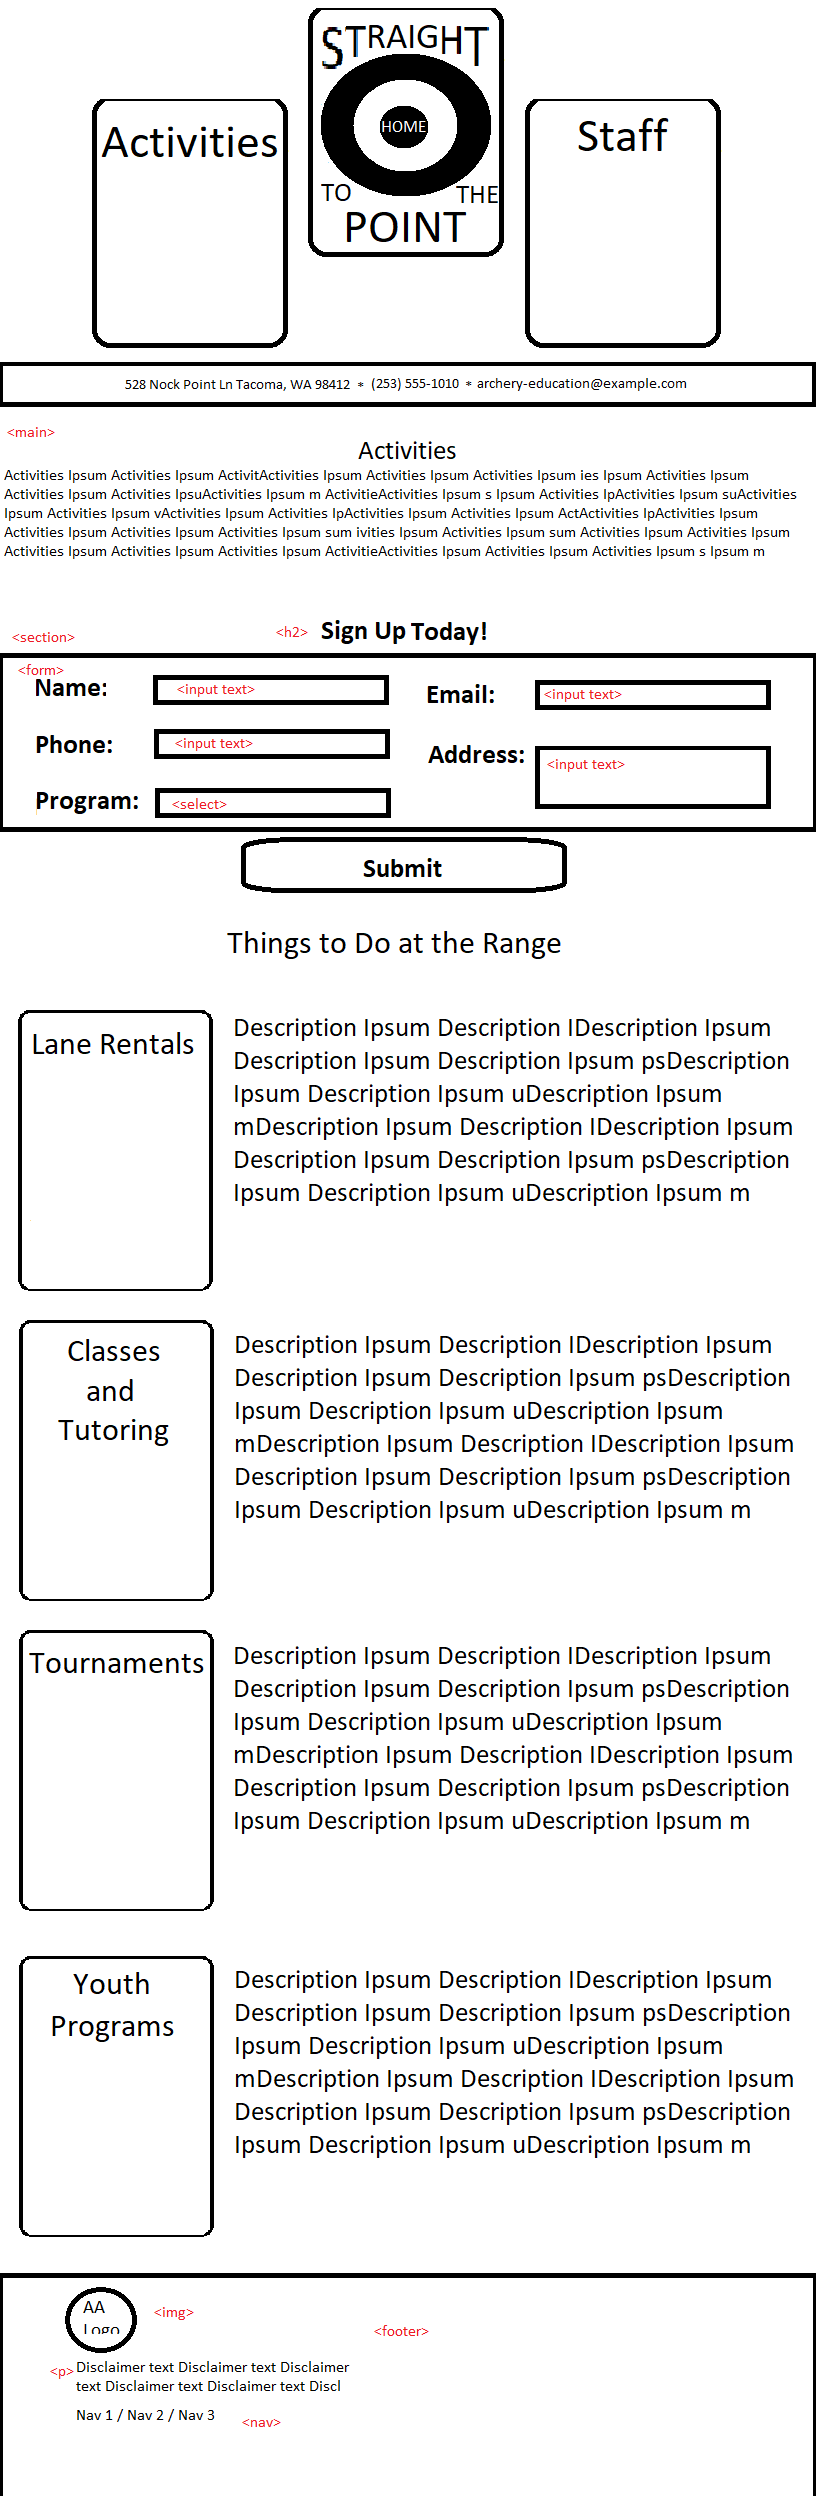
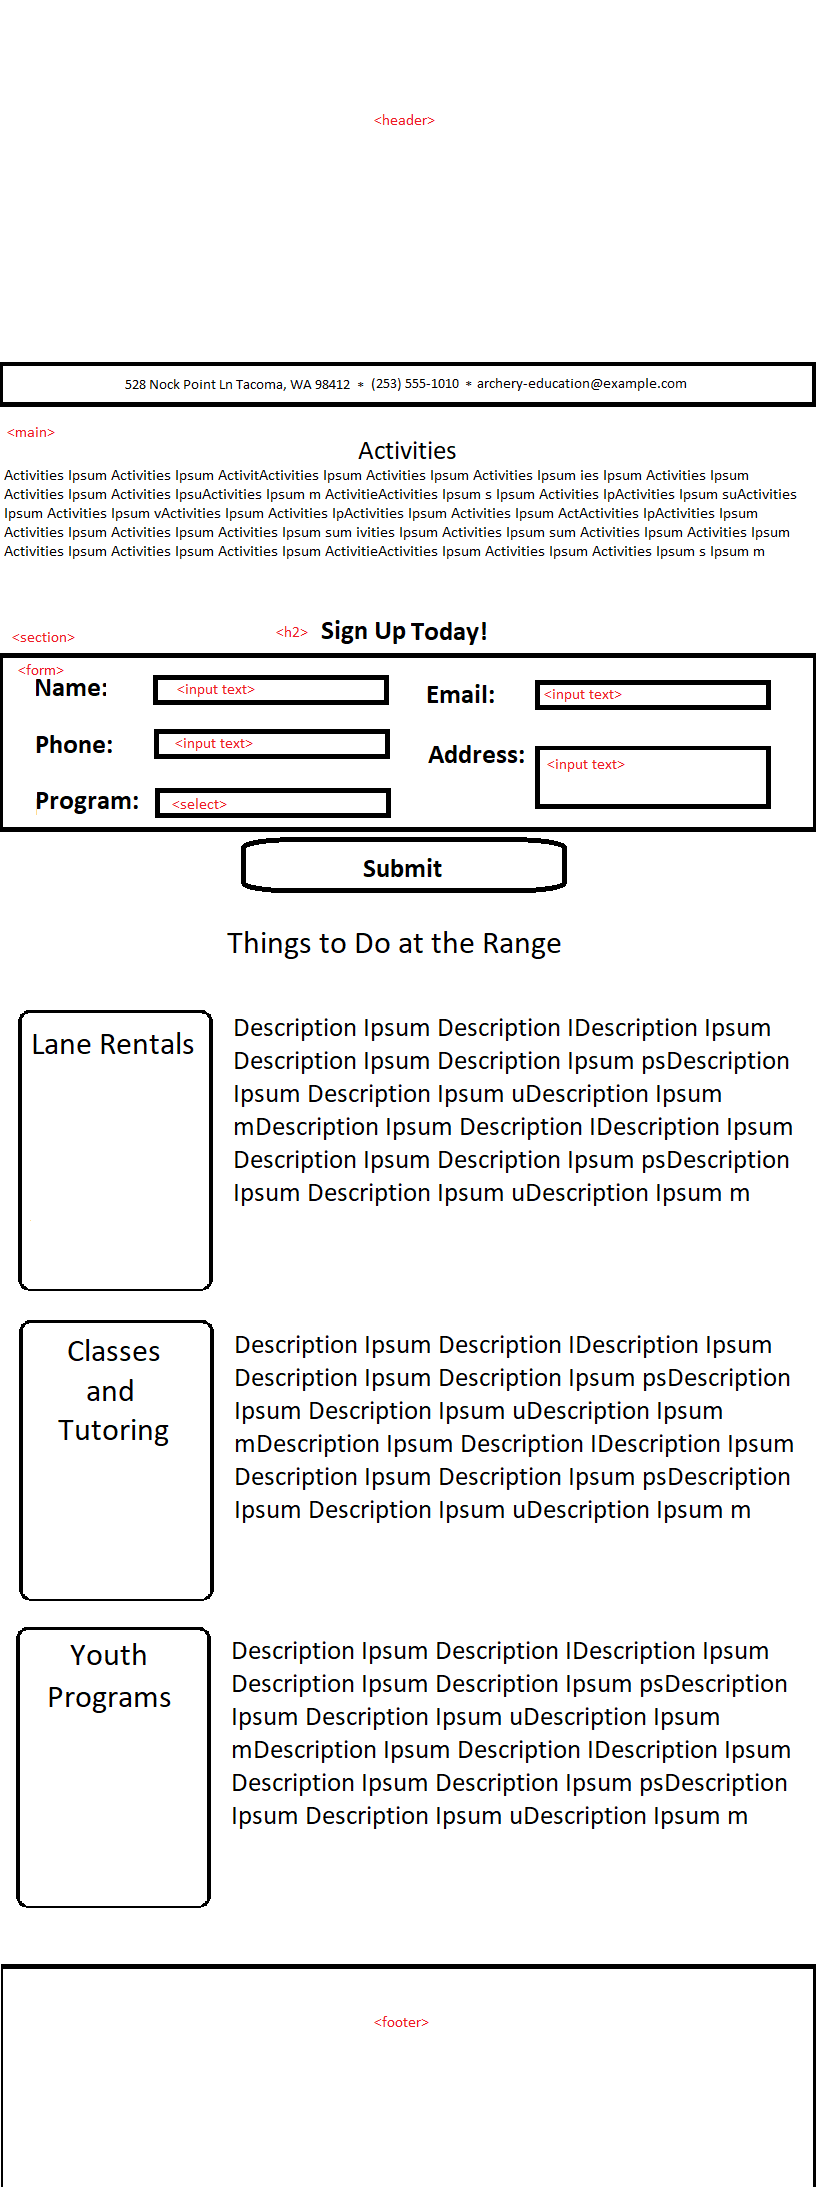
Switched to using cards for NAV. Replaced ipsum with real text

diff --git a/activities.html b/activities.html
@@ -3,7 +3,7 @@
 <head>
   <meta charset="utf-8">
   <link rel="stylesheet" type="text/css" href="styles/styles.css-placeholder">
-  <title>Staff - Straight to the Point</title>
+  <title>Activities - Straight to the Point</title>
   <script src="https://kit.fontawesome.com/f3d2ed15b5.js" crossorigin="anonymous"></script>
 </head>
 <body>
@@ -66,6 +66,7 @@
           <option value="p10">Private Tutoring - 10 Lessons</option>
           <option value="t">Upcoming Tournament</option>
           <option value="y">Youth Program - YMCA, Boy Scouts, Schools, etc.</option>
+          <option value="ge">Group Event</option>
         </select>
         <input type="submit" value="Send Registration Request" id="signup-submit" name="signup-submit">
       </form>
@@ -74,25 +75,38 @@
       <h2>Things to Do at the Range</h2>
       <article>
         <div class="card activity-card">
-          <h3>Lane Rentals</h3>
+          <h3>Target Ranges</h3>
         </div>
-        <p>Lorem ipsum dolor sit amet, consectetur adipiscing elit. Donec gravida ipsum est, at pharetra sem efficitur non. Nulla aliquam felis purus, in lacinia neque convallis sit amet. Sed ut enim quam. Aenean et massa id ante bibendum commodo. Aenean sagittis nibh ante. Vestibulum molestie vulputate quam. Nam rhoncus diam nec justo eleifend, ac laoreet ligula accumsan. Cras in erat vel lectus placerat ultricies at non magna. Pellentesque quis lectus quis lacus ornare congue. Morbi maximus magna ac malesuada dapibus. Duis nec mollis purus. Phasellus vel iaculis massa, sed laoreet ipsum.</p>
+        <p>Come and hone your craft. We house 28 shooting lanes - 14 each of 10 yards and 20 yards - and 2 private coaching rooms. We also have access to 26 additional 20 yard lanes and an outdoor shooting field.</p>
+        <p>If your're feeling social, make a group reservation! Some of the many uses of the range include...</p>
+          <ul>
+            <li>Birthday Parties</li>
+            <li>Team Outings / Corporate Events</li>
+            <li>Friendly Competitions</li>
       </article>
       <article>
         <div class="card activity-card">
           <h3>Classes and Tutoring</h3>
         </div>
-        <p>Lorem ipsum dolor sit amet, consectetur adipiscing elit. Donec gravida ipsum est, at pharetra sem efficitur non. Nulla aliquam felis purus, in lacinia neque convallis sit amet. Sed ut enim quam. Aenean et massa id ante bibendum commodo. Aenean sagittis nibh ante. Vestibulum molestie vulputate quam. Nam rhoncus diam nec justo eleifend, ac laoreet ligula accumsan. Cras in erat vel lectus placerat ultricies at non magna. Pellentesque quis lectus quis lacus ornare congue. Morbi maximus magna ac malesuada dapibus. Duis nec mollis purus. Phasellus vel iaculis massa, sed laoreet ipsum.</p>
-      </article>
-      <article>
-        <div class="card activity-card">
-          <h3>Tournaments</h3>
-        </div>
-        <p>Lorem ipsum dolor sit amet, consectetur adipiscing elit. Donec gravida ipsum est, at pharetra sem efficitur non. Nulla aliquam felis purus, in lacinia neque convallis sit amet. Sed ut enim quam. Aenean et massa id ante bibendum commodo. Aenean sagittis nibh ante. Vestibulum molestie vulputate quam. Nam rhoncus diam nec justo eleifend, ac laoreet ligula accumsan. Cras in erat vel lectus placerat ultricies at non magna. Pellentesque quis lectus quis lacus ornare congue. Morbi maximus magna ac malesuada dapibus. Duis nec mollis purus. Phasellus vel iaculis massa, sed laoreet ipsum.</p>
+        <p>From Beginner to Elite, archers of all ages and ability can learn about this exciting Olympic and international sport. We offer several types of lessons to accommodate everyone from the first time archer to the professional archer. Once set up with proper fitting equipment, each archer will be given the basic safety instruction to start and will be introduced to various shooting techniques.</p>
+        <p>Straight to the Point Archery’s staff has decades of experience in the archery industry. We teach in a positive learning environment and are committed to educating you with any questions that you may have.</p>
       </article>
       <article>
         <div class="card activity-card">
           <h3>Youth Programs</h3>
+        </div>
+        <p>Straight to the Point Archery also offers several other youth group activities. We are dedicated to teaching valuable life skills to the youth in our community through the wonderful discipline of archery.</p>
+        <p>Some (but not all!) of our programs...</p>
+        <ul>
+          <li>Homeschooling Programs</li>
+          <li>Kids Club Events</li>
+          <li>YMCA Classes</li>
+          <li>Boy and Girl Scouts Achievement Programs</li>
+        </ul>
+      </article>
+      <article>
+        <div class="card activity-card">
+          <h3>Tournaments</h3>
         </div>
         <p>Lorem ipsum dolor sit amet, consectetur adipiscing elit. Donec gravida ipsum est, at pharetra sem efficitur non. Nulla aliquam felis purus, in lacinia neque convallis sit amet. Sed ut enim quam. Aenean et massa id ante bibendum commodo. Aenean sagittis nibh ante. Vestibulum molestie vulputate quam. Nam rhoncus diam nec justo eleifend, ac laoreet ligula accumsan. Cras in erat vel lectus placerat ultricies at non magna. Pellentesque quis lectus quis lacus ornare congue. Morbi maximus magna ac malesuada dapibus. Duis nec mollis purus. Phasellus vel iaculis massa, sed laoreet ipsum.</p>
       </article>
@@ -102,10 +116,33 @@
     <img src="images/archeryAcademy-logo-white.png" alt="Archery Academy Logo">
     <p>Next Step Archery admits students of any race, gender presentation, sexuality, religion, national origin or ethnic origin to all rights, privileges, programs and activities available to students at the school. We do not discriminate in administration of our educational policies, admission policies and other school administered programs. All students are welcome and valuable members of our community.</p>
     <nav class="footer-nav">
-      <a href="https://www.usarchery.org/">USA Archery (USAA)</a>
-      <a href="http://www.washingtonarchery.org/">Washington State Archery Association (WSAA)</a>
-      <a href="http://www.wsbowhunters.org">Washington State Bow Hunters (WSB)</a>
-      <a href="https://www.nfaausa.com/">National Field Archery Association (NFAA)</a>
+      <h2>Affiliates</h2>
+      <div class="card-section affiliates-list">
+        <a href="https://www.usarchery.org/">
+          <div class="card affiliate-card">
+            <h3>USAA</h3>
+            <p>USA Archery</p>
+          </div>
+        </a>
+        <a href="http://www.washingtonarchery.org/">
+          <div class="card affiliate-card">
+            <h3>WSAA</h3>
+            <p>Washington State Archery Association</p>
+          </div>
+        </a>
+        <a href="http://www.wsbowhunters.org">
+          <div class="card affiliate-card">
+            <h3>WSB</h3>
+            <p>Washington State Bow Hunters</p>
+          </div>
+        </a>
+        <a href="https://www.nfaausa.com/">
+          <div class="card affiliate-card">
+            <h3>NFAA</h3>
+            <p>National Field Archery Association</p>
+          </div>
+        </a>
+      </div>
     </nav>
   </footer>
 </body>

diff --git a/staff.html b/staff.html
@@ -41,7 +41,7 @@
   <main>
     <section class="staff top-section">
       <h2>Meet Our Staff</h2>
-      <p>Straight to the Point Archery has instructors that are qualified level 1 and level 2 instructors and have met the safety requirements of the USA Archery (USAA). We teach in a positive learning environment.  Our instructors also have extensive knowledge of the most advanced archery equipment and all forms of archery from the traditional long bow to the modern compound.  Straight to the Point Archery also has specific instructors for recreational archery, competitive archery and bow hunting.</p>
+      <p>Straight to the Point Archery employs qualified level 1 and level 2 instructors that have met the safety requirements of the USA Archery (USAA). We teach in a positive learning environment. Our instructors also have extensive knowledge of the most advanced archery equipment and all forms of archery from the traditional long bow to the modern compound. Straight to the Point Archery also has specific instructors for recreational archery, competitive archery and bow hunting.</p>
       <p>Straight to the Point Archery’s staff has decades of experience in the archery industry. We are committed to educating you with any questions that you may have.</p>
     </section>
     <section class="signup-section" id="signup-section">
@@ -132,10 +132,33 @@
     <img src="images/archeryAcademy-logo-white.png" alt="Archery Academy Logo">
     <p>Next Step Archery admits students of any race, gender presentation, sexuality, religion, national origin or ethnic origin to all rights, privileges, programs and activities available to students at the school. We do not discriminate in administration of our educational policies, admission policies and other school administered programs. All students are welcome and valuable members of our community.</p>
     <nav class="footer-nav">
-      <a href="https://www.usarchery.org/">USA Archery (USAA)</a>
-      <a href="http://www.washingtonarchery.org/">Washington State Archery Association (WSAA)</a>
-      <a href="http://www.wsbowhunters.org">Washington State Bow Hunters (WSB)</a>
-      <a href="https://www.nfaausa.com/">National Field Archery Association (NFAA)</a>
+      <h2>Affiliates</h2>
+      <div class="card-section affiliates-list">
+        <a href="https://www.usarchery.org/">
+          <div class="card affiliate-card">
+            <h3>USAA</h3>
+            <p>USA Archery</p>
+          </div>
+        </a>
+        <a href="http://www.washingtonarchery.org/">
+          <div class="card affiliate-card">
+            <h3>WSAA</h3>
+            <p>Washington State Archery Association</p>
+          </div>
+        </a>
+        <a href="http://www.wsbowhunters.org">
+          <div class="card affiliate-card">
+            <h3>WSB</h3>
+            <p>Washington State Bow Hunters</p>
+          </div>
+        </a>
+        <a href="https://www.nfaausa.com/">
+          <div class="card affiliate-card">
+            <h3>NFAA</h3>
+            <p>National Field Archery Association</p>
+          </div>
+        </a>
+      </div>
     </nav>
   </footer>
 </body>

diff --git a/index.html b/index.html
@@ -156,10 +156,33 @@
     <img src="images/archeryAcademy-logo-white.png" alt="Archery Academy Logo">
     <p>Next Step Archery admits students of any race, gender presentation, sexuality, religion, national origin or ethnic origin to all rights, privileges, programs and activities available to students at the school. We do not discriminate in administration of our educational policies, admission policies and other school administered programs. All students are welcome and valuable members of our community.</p>
     <nav class="footer-nav">
-      <a href="https://www.usarchery.org/">USA Archery (USAA)</a>
-      <a href="http://www.washingtonarchery.org/">Washington State Archery Association (WSAA)</a>
-      <a href="http://www.wsbowhunters.org">Washington State Bow Hunters (WSB)</a>
-      <a href="https://www.nfaausa.com/">National Field Archery Association (NFAA)</a>
+      <h2>Affiliates</h2>
+      <div class="card-section affiliates-list">
+        <a href="https://www.usarchery.org/">
+          <div class="card affiliate-card">
+            <h3>USAA</h3>
+            <p>USA Archery</p>
+          </div>
+        </a>
+        <a href="http://www.washingtonarchery.org/">
+          <div class="card affiliate-card">
+            <h3>WSAA</h3>
+            <p>Washington State Archery Association</p>
+          </div>
+        </a>
+        <a href="http://www.wsbowhunters.org">
+          <div class="card affiliate-card">
+            <h3>WSB</h3>
+            <p>Washington State Bow Hunters</p>
+          </div>
+        </a>
+        <a href="https://www.nfaausa.com/">
+          <div class="card affiliate-card">
+            <h3>NFAA</h3>
+            <p>National Field Archery Association</p>
+          </div>
+        </a>
+      </div>
     </nav>
   </footer>
 </body>
